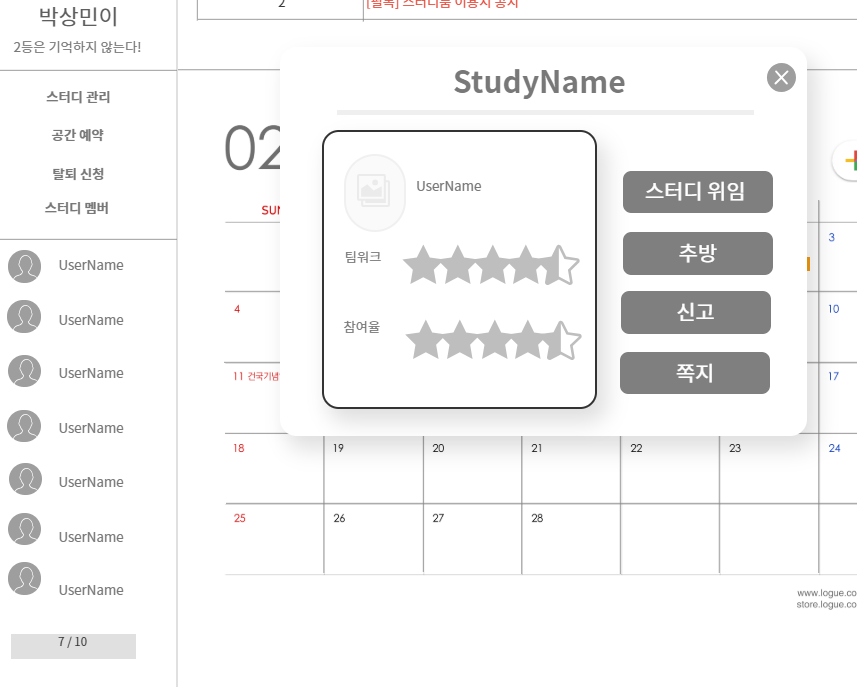
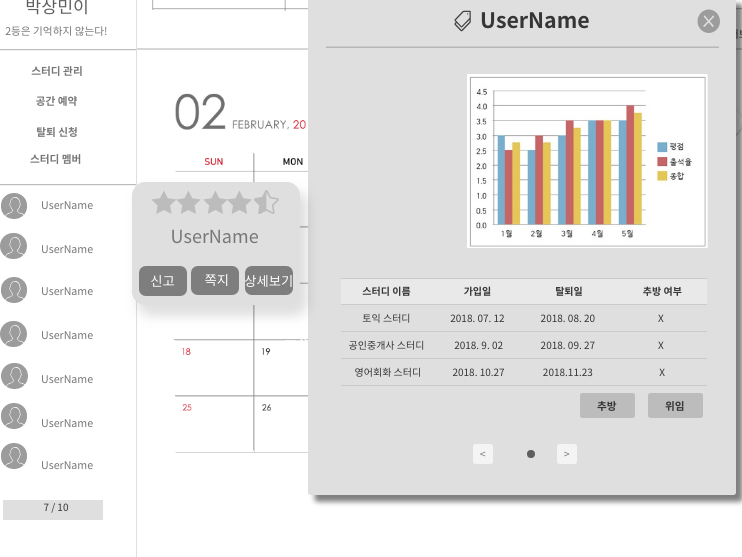
jihwan use-case 스터디 멤버 조회 수정

diff --git a/doc/use-case/jihwan/uc-StudyMemberDetailView.md b/doc/use-case/jihwan/uc-StudyMemberDetailView.md
@@ -7,10 +7,10 @@
 ## 보조 액터(Secondary Actor)
 
 ## 사전 조건(Preconditions)
-- 액터는 마이페이지를 클릭한다.
-- 시스템은 마이페이지 폼을 출력한다.
-- 액터는 해당 스터디를 클릭한다.
-- 시스템은 해당 스터디 폼을 출력한다.
+1. 액터는 마이페이지를 클릭한다.
+2. 시스템은 마이페이지 폼을 출력한다.
+3. 액터는 해당 스터디를 클릭한다.
+4. 시스템은 해당 스터디 폼을 출력한다.
 
 ## 종료 조건(Postconditions)
 - 멤버를 조회 하였다.
@@ -22,11 +22,13 @@
 ## 시나리오(Flow of Events)
 
 ### 멤버 조회하기 (스터디 원도 가능)
-1. 액터는 해당 스터디를 클릭하면 좌측에 멤버 목록을 확인한다. 
+1. 액터는 좌측을 보면 해당 스터디의 멤버를 확인 할 수 있다.
+2. 액터는 원하는 스터디 멤버에 마우스를 올린다.
+3. 시스템은 해당 스터디 멤버의 평점과 닉네임 등 간략한 정보를 출력한다. 
 
 ### 멤버 상세조회 (스터디 원도 가능)
-1. 액터는 좌측 멤버 목록 중 조회 하고자 하는 멤버를 클릭한다.
-2. 액터는 해당 멤버의 닉네임 및 별점을 확인 할 수 있다.
+1. 액터는 "멤버 조회하기 3. " 에서 상세보기 버튼을 클릭한다. 
+2. 시스템은 해당 스터디 원의 정보를 상세히 출력한다.
 
 ### 멤버에게 쪽지 보내기 (스터디 원도 가능)
 1. 멤버 상세 조회 폼에서 쪽지 보내기 버튼을 클릭 한다.
@@ -35,19 +37,19 @@
 4. 위의 작업을 완료 후 해당 스터디의 폼이 출력된다.
 
 ### 멤버 신고하기 (스터디 원도 가능)
-1. 멤버 상세 조회 폼에서 신고하기 버튼을 클릭 한다.
+1. 액터는 "멤버 조회하기 2. " 에서 신고 버튼을 클릭한다.
 2. 시스템은 신고하기 폼을 출력한다.
 3. 액터는 신고하고자 하는 내용을 작성 후 완료 버튼을 클릭한다.
-4. 위의 작업을 완료 후 해당 스터디의 폼이 출력된다.
+4. 위의 작업을 완료 후 해당 스터디의 폼이 출력된다. 
 
 ### 스터디장 권한 위임하기
-1. 멤버 상세 조회 폼에서 스터디 위임 버튼을 클릭 한다.
+1. 액터는 멤버 상세 조회 폼에서 스터디 위임 버튼을 클릭 한다.
 2. 시스템은 위임 확인 폼을 출력한다.
 3. 액터는 확인을 누른다.
-4. 해당 멤버에게 스터디 장의 권한 위임이 완료 되었다.
+4. 시스템은 해당 멤버에게 스터디 장의 권한 위임하였다.
 
 ### 멤버 추방 하기
-1. 멤버 상세 조회 폼에서 추방 버튼을 클릭 한다.
+1. 액터는 멤버 상세 조회 폼에서 추방 버튼을 클릭 한다.
 2. 시스템은 추방 확인 폼을 출력한다.
 3. 액터는 확인을 누른다.
 4. 해당 스터디 원은 추방 되었다.
